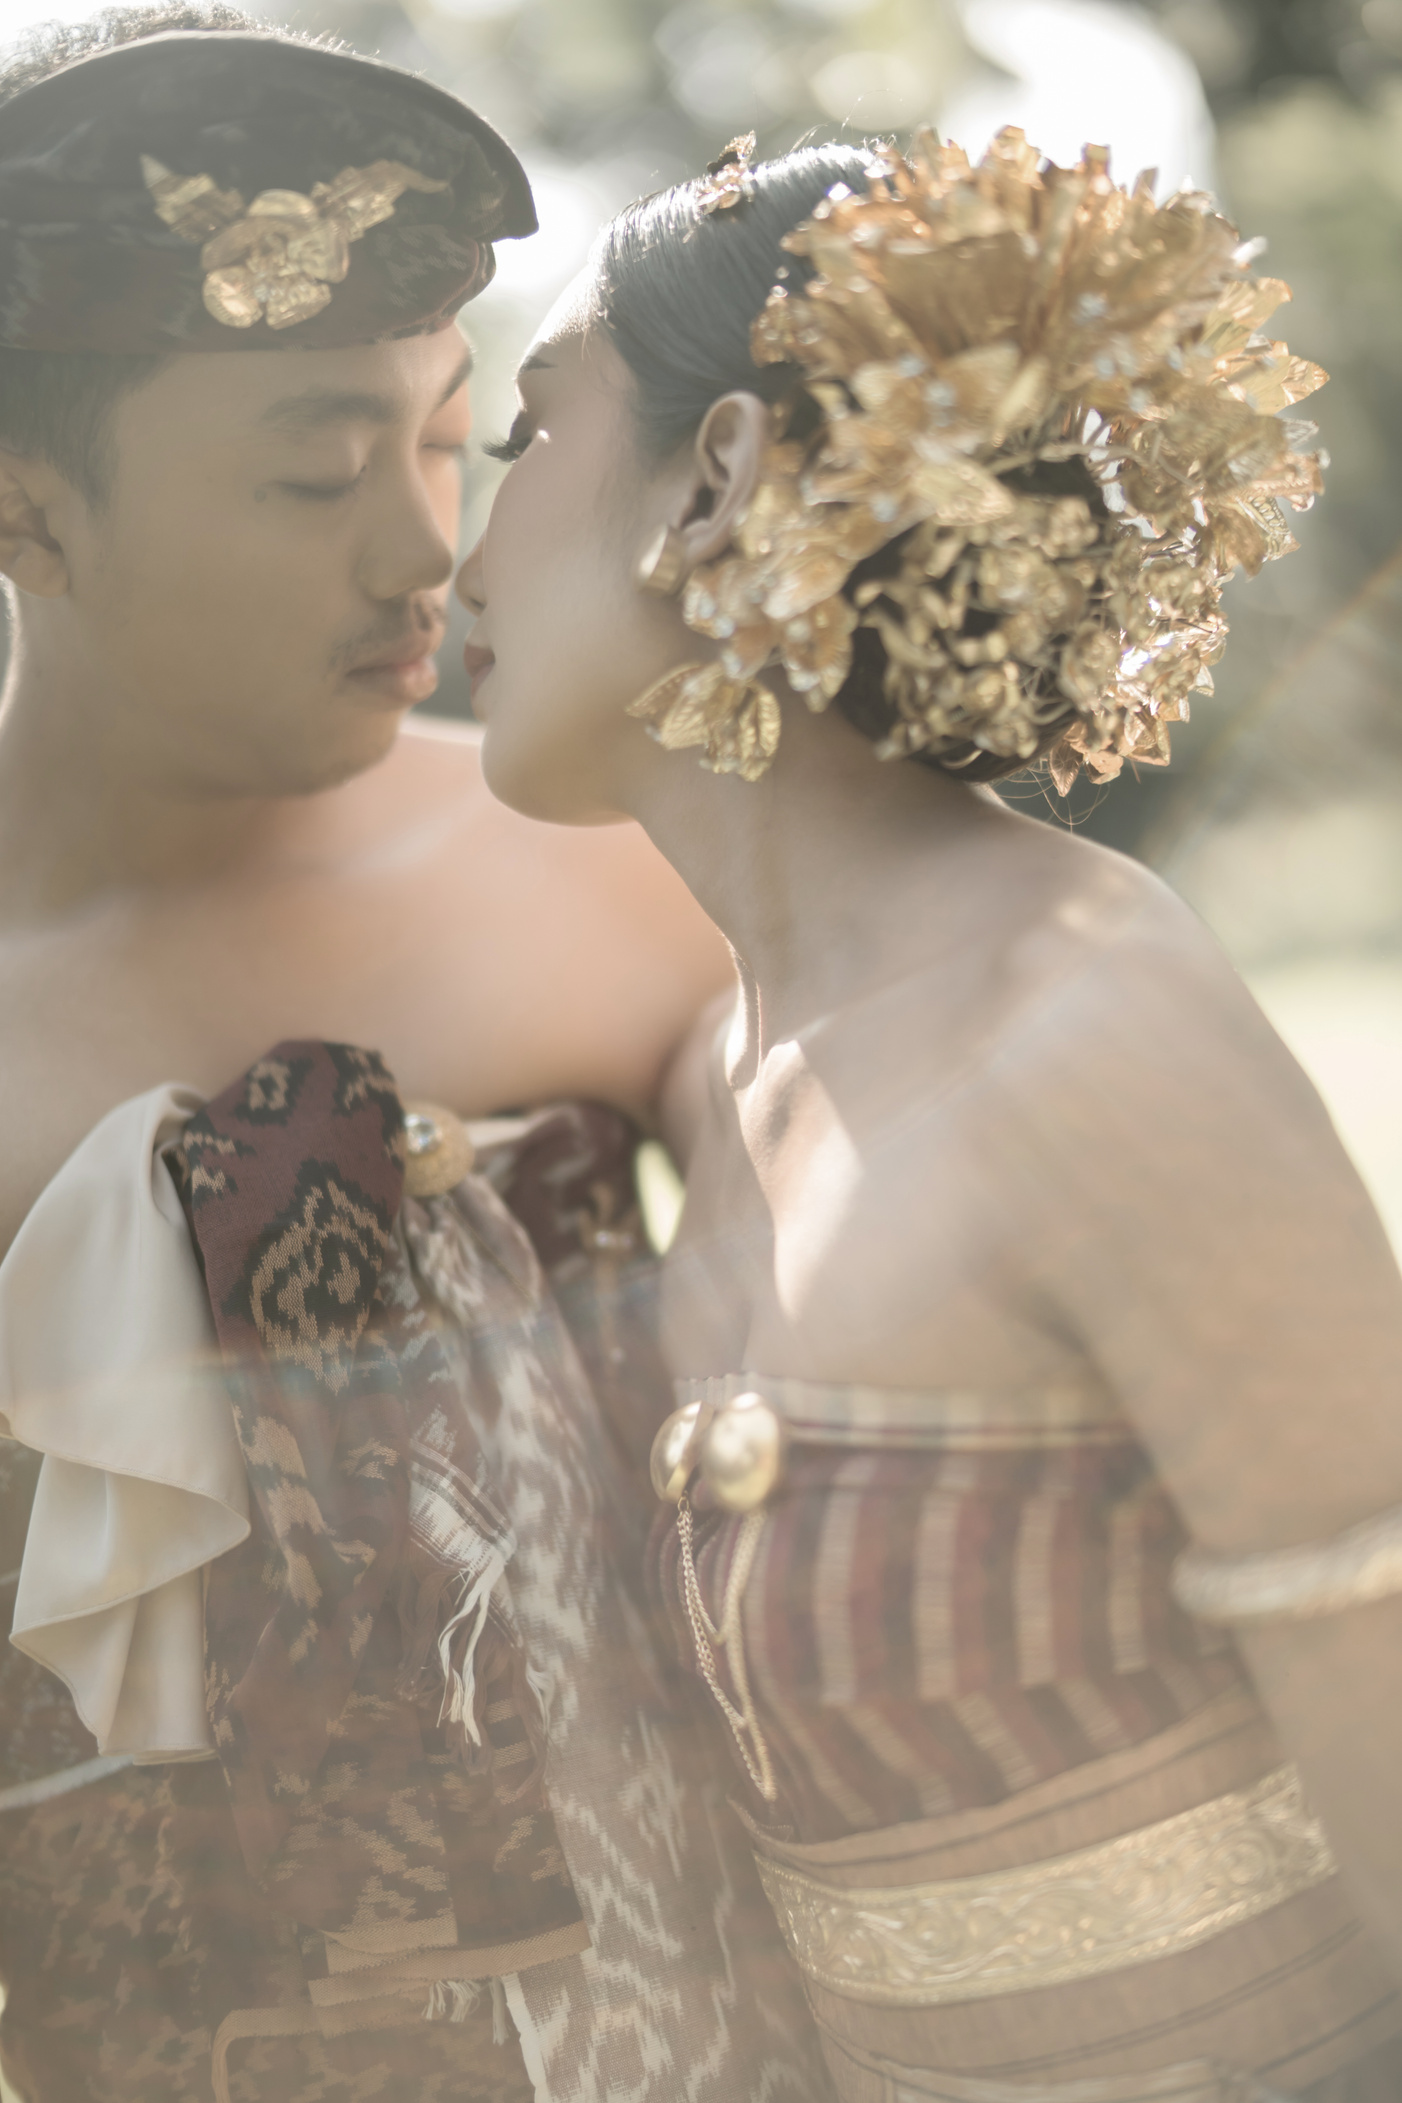
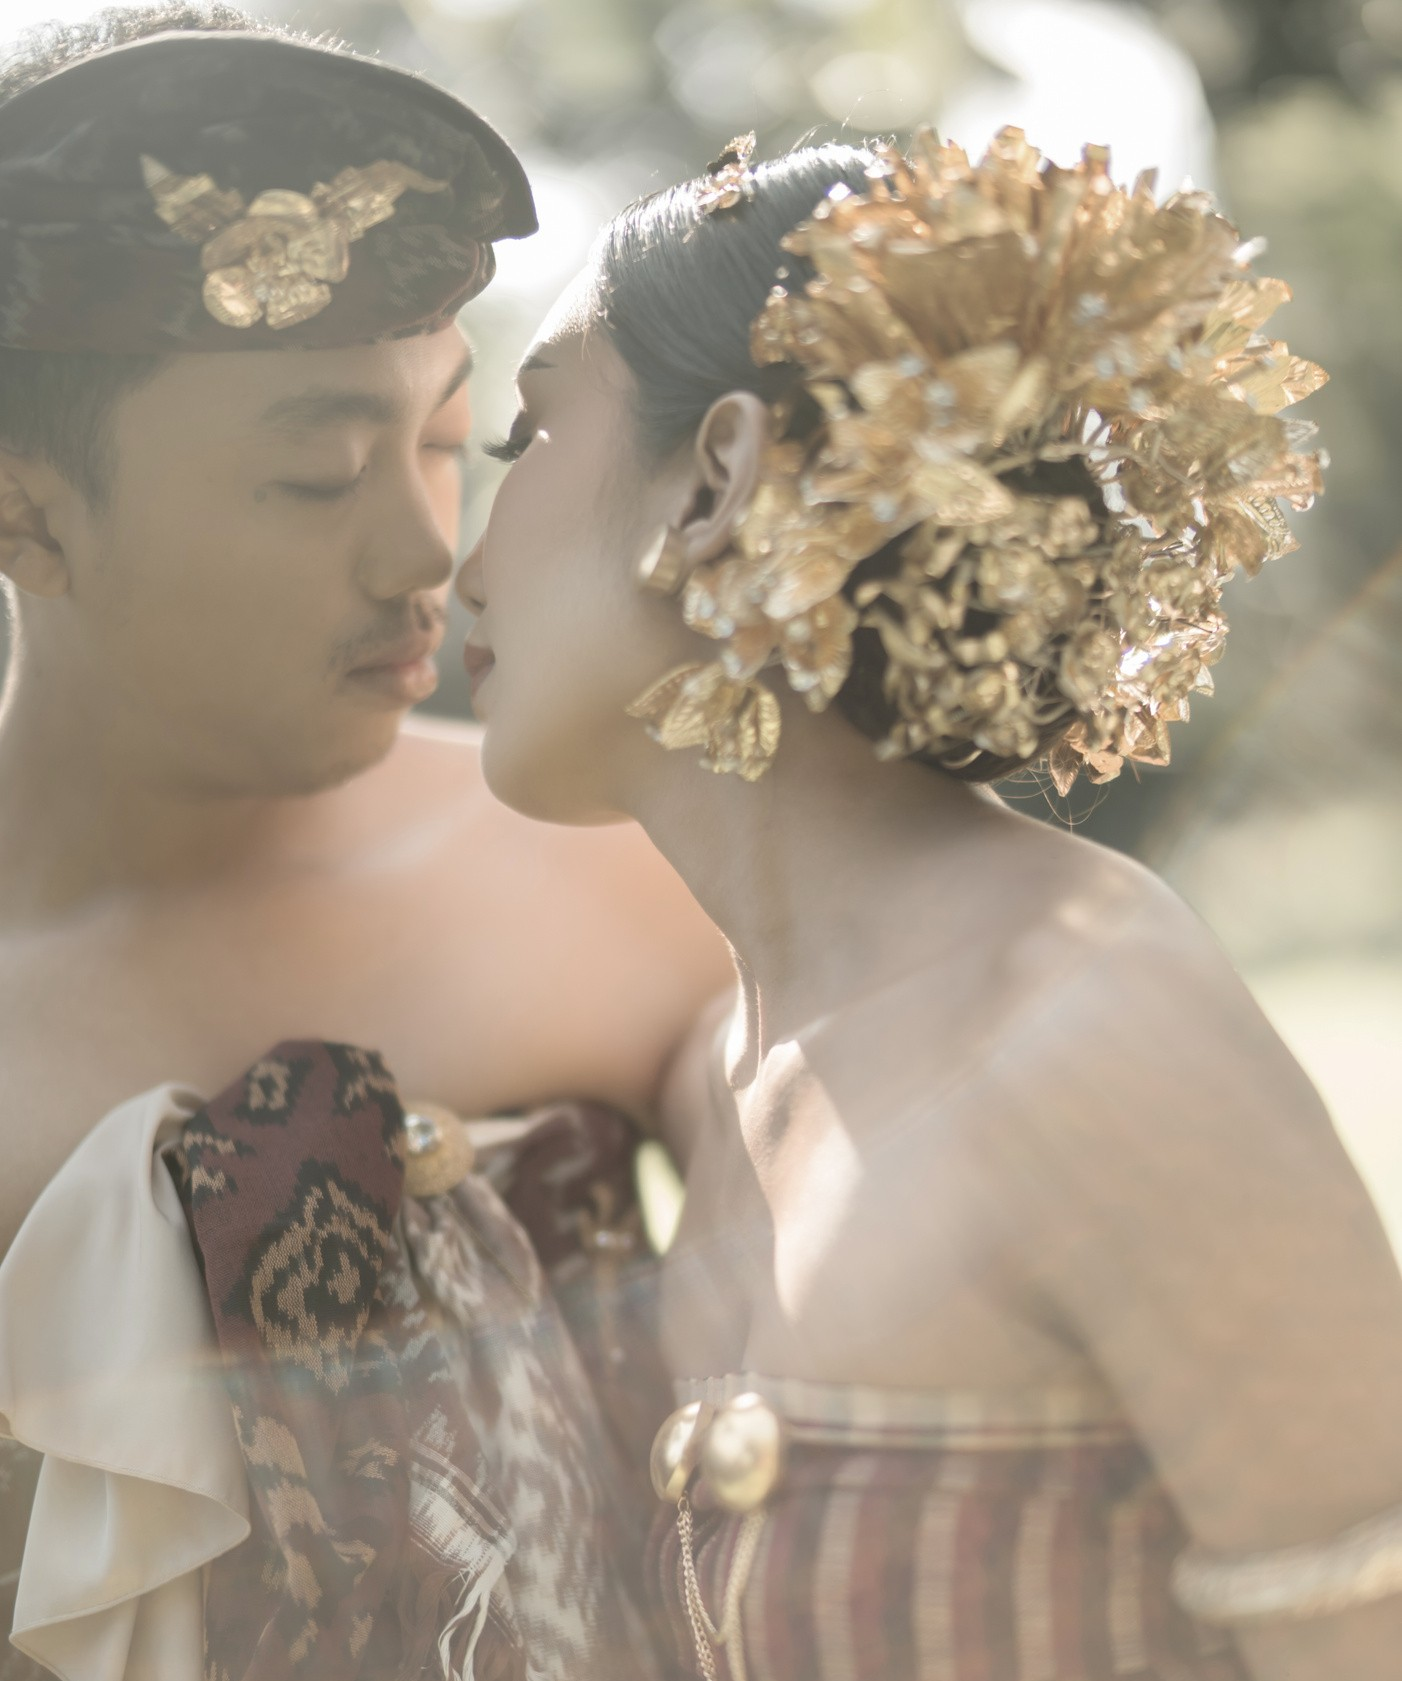
side header, galeri pictures

diff --git a/coba/index.html b/coba/index.html
@@ -80,8 +80,99 @@
                 <h6>TAUTAN GOOGLE MAPS</h6>
                 <img src="assets/Untitled-2.png" alt="">
             </div>
-       <div class="galeri-header">galeri header</div>
-       <div class="galeri">galeri</div>
+        </div>  
+        <div class="galeri-tabel">
+            <div class="header-left">
+                <p>KRISNA</p>
+                <p>ADITYA . KRISNA</p>
+                <p style="margin-bottom: 10rem;">ADITYA</p>
+                <p>KRISNA</p>
+                <p>ADITYA . KRISNA</p>
+                <p style="margin-bottom: 10rem;">ADITYA</p>
+                <p>KRISNA</p>
+                <p>ADITYA . KRISNA</p>
+                <p style="margin-bottom: 10rem;">ADITYA</p>
+            </div>
+            <div class="galeri">
+                <div class="galeri-header">galeri header</div>
+                <div class="galeri-content">
+                    <div class="content-1">
+                        <img src="assets/black.png" alt="">
+                        <img src="assets/black.png" alt="">
+                    </div>
+                    <img src="assets/output_prefix-019.jpg" alt="">
+                    <div class="content-2">
+                        <img src="assets/black.png" alt="">
+                        <img src="assets/black.png" alt="">
+                    </div>
+                    <img src="assets/output_prefix-021.jpg" alt="">
+                    <img src="assets/black.png" alt="">
+                    <img src="assets/black.png" alt="">
+                    <div class="content-3">
+                        <img src="assets/black.png" alt="">
+                        <img src="assets/output_prefix-023.jpg" alt="">
+                    </div>
+                    <img src="assets/output_prefix-024.jpg" alt="">
+                    <img src="assets/output_prefix-025.jpg" alt="">
+                    <img src="assets/output_prefix-026.jpg" alt="">
+                    <!-- more vertical margin here -->
+                    <img src="assets/output_prefix-027.jpg" alt=""> 
+                    <!-- more vertical margin here -->
+                    <img src="assets/output_prefix-032.jpg" alt="">
+                    <img src="assets/black.png" alt="">
+                    <div class="content-4">
+                        <img src="assets/black.png" alt="">
+                        <img src="assets/black.png" alt="">
+                    </div>
+                    <img src="assets/output_prefix-031.jpg" alt="">
+                    <img src="assets/output_prefix-033.jpg" alt="">
+                    <img src="assets/output_prefix-034.jpg" alt="">
+                    <img src="assets/output_prefix-035.jpg" alt="">
+                    <div class="content-5">
+                        <img src="assets/black.png" alt="">
+                        <img src="assets/black.png" alt="">
+                    </div>
+                    <div class="content-6">
+                        <img src="assets/black.png" alt="">
+                        <img src="assets/black.png" alt="">
+                    </div>
+                    <img src="assets/output_prefix-041.jpg" alt="">
+                    <img src="assets/output_prefix-036.jpg" alt="">
+                    <div class="content-7">
+                        <img src="assets/black.png" alt="">
+                        <img src="assets/black.png" alt="">
+                    </div>
+                    <img src="assets/output_prefix-044.jpg" alt="">
+                    <div class="content-8">
+                        <div>
+                            <img src="assets/black.png" alt="">
+                            <img src="assets/black.png" alt="">
+                            <img src="assets/black.png" alt="">
+                        </div>
+                        <img src="assets/black.png" alt="">
+                    </div>
+                    <img src="assets/output_prefix-046.jpg" alt="">
+                    <img src="assets/output_prefix-047.jpg" alt="">
+                    <img src="assets/output_prefix-051.jpg" alt="">
+                    <div class="content-9">
+                        <img src="assets/black.png" alt="">
+                        <img src="assets/black.png" alt="">
+                    </div>                    
+                    <img src="assets/output_prefix-045.jpg" alt="">
+                </div>
+            </div>
+            <div class="header-right">
+                <p>OKTOBER</p>
+                <p>PERNIKAHAN . SELAMANYA</p>
+                <p style="margin-bottom: 10rem;">2025</p>
+                <p>OKTOBER</p>
+                <p>PERNIKAHAN . SELAMANYA</p>
+                <p style="margin-bottom: 10rem;">2025</p>
+                <p>OKTOBER</p>
+                <p>PERNIKAHAN . SELAMANYA</p>
+                <p style="margin-bottom: 10rem;">2025</p>    
+            </div>
+        </div>     
     </div>
 
 </body>

diff --git a/coba/style.css b/coba/style.css
@@ -130,6 +130,7 @@ h1 { font-size: 2rem; font-style: normal; font-weight: normal;}     /* 32px */
 
 .doa-text2 p {
     width: 38%;
+    margin-left: -5rem;
     margin-right: 4.5rem;
 }
 
@@ -238,5 +239,74 @@ h1 { font-size: 2rem; font-style: normal; font-weight: normal;}     /* 32px */
     z-index: 1;
     position: relative;
     bottom: 3rem;
+}
+
+/* --------------------------Galeri Header-------------------------- */
+.galeri-tabel {
+    display: grid;
+    grid-template-areas: 
+    "header-left galeri header-right";
+    grid-template-columns: 0.5fr 9fr 0.5fr;
+    width: 100%;
+}
+
+.header-left {
+    grid-area: header-left;
+}
+
+.header-right {
+    grid-area: header-right;
+}
+
+.galeri {
+    grid-area: galeri;
+}
+
+.header-left, .header-right {
+    display: flex;
+    flex-direction: column;
+    gap: 12rem;
+}
+
+.header-right p {
+    writing-mode: vertical-rl;
+    margin-bottom: 17.5rem;
+    margin-right: 0;
+}
+
+.header-left p {
+    writing-mode: vertical-rl;
+    position: relative;
+    transform: rotate(180deg);
+    margin-bottom: 20rem;
+    margin-left: 0.5rem;
+}
+
+.header-container {
+    height: 20rem;
+    display: flex;
+    flex-direction: column;
+    justify-content: start;
+}
+
+/* --------------------------Galeri Content-------------------------- */
+.galeri-content img{
+    width: 80%;
+}
+
+.galeri-content{
+    display: flex;
+    flex-direction: column;
+    justify-content: center;
+    align-items: center;
+    gap: 5rem;
+}
+
+.content-1, .content-2, .content-3,
+.content-4, .content-5, .content-6,
+.content-7, .content-8, .content-9 {
+    display: flex;
+    justify-content: space-around;
+    width: 80%;
 }
 
